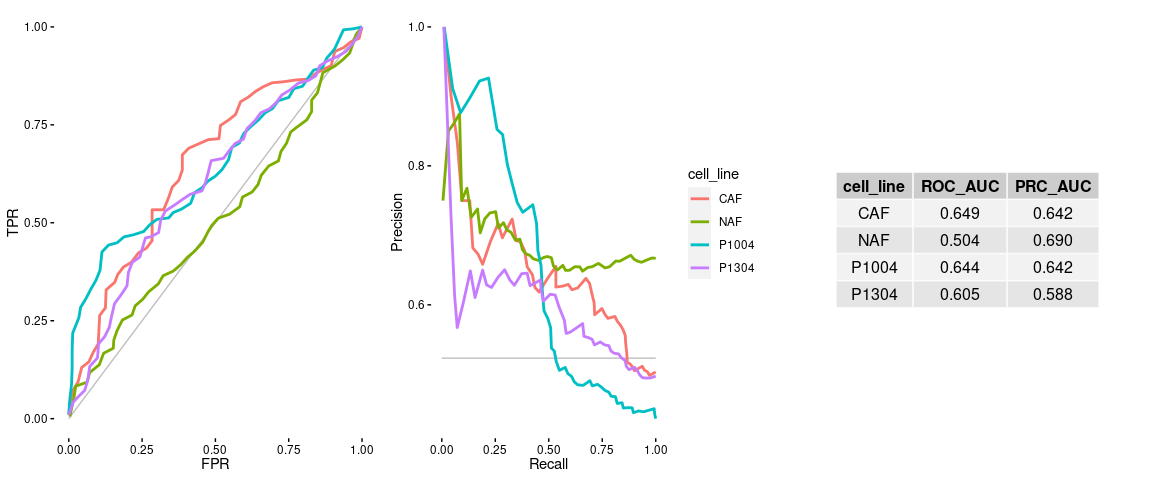
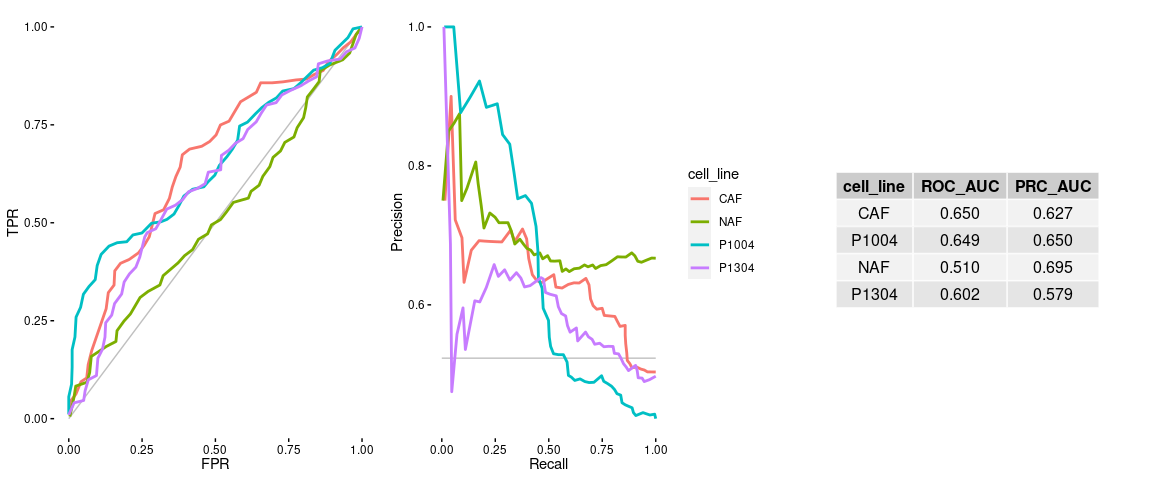
fixing error in model building for binary results

diff --git a/src/klaeger_synergy_binary_model/build_klaeger_synergy_binary_model.md b/src/klaeger_synergy_binary_model/build_klaeger_synergy_binary_model.md
@@ -96,14 +96,15 @@ for (this_cell_line in unique(klaeger_data_matches_full$cell_line)) {
         
         klaeger_test = klaeger_data_cell_line %>%
             filter(drug == exclude_compound) %>%
-            select(-drug,-drug_lower,-pdac,-concentration_M,-cell_line,-viability)
+            select(-drug,-drug_lower,-pdac,-concentration_M,-cell_line,-viability_binary,-viability)
         
         these_prediction_results = klaeger_data_cell_line %>%
             filter(drug == exclude_compound) %>%
-            select(drug,drug_lower,pdac,concentration_M,cell_line,viability_binary)
+            select(drug,drug_lower,pdac,concentration_M,cell_line,viability_binary,viability) %>%
+            rename(actual_viability_binary = viability_binary, actual_viability = viability)
         
         rf_mod <-
-            rand_forest(trees = 1000) %>%
+            rand_forest(trees = 5000) %>%
             set_engine("ranger", num.threads = 12) %>%
             set_mode("classification")
         
@@ -111,8 +112,7 @@ for (this_cell_line in unique(klaeger_data_matches_full$cell_line)) {
             rf_mod %>%
             fit(viability_binary ~ ., data = klaeger_train)
         
-        these_prediction_results$predicted_viability =predict(rf_fit_rs, klaeger_test, type = "prob")$.pred_TRUE
-        these_prediction_results$actual_viability = klaeger_test$viability_binary
+        these_prediction_results$predicted_viability = predict(rf_fit_rs, klaeger_test, type = "prob")$.pred_TRUE
         these_prediction_results$test_set_size = dim(klaeger_test)[1]
         
         prediction_results = bind_rows(
@@ -124,7 +124,7 @@ for (this_cell_line in unique(klaeger_data_matches_full$cell_line)) {
 toc()
 ```
 
-    ## 86.964 sec elapsed
+    ## 334.034 sec elapsed
 
 ``` r
 # prediction_results = prediction_results %>% 
@@ -138,7 +138,7 @@ toc()
 ``` r
 assess_threshold = function(threshold,data) {
     data %>% 
-        mutate(actual_viability = as.logical(actual_viability)) %>%
+        mutate(actual_viability = as.logical(actual_viability_binary)) %>%
         mutate(above_thresh = predicted_viability >= threshold) %>% 
         summarise(cutoff = threshold,
                             TN = sum(! actual_viability & ! above_thresh),
@@ -190,9 +190,6 @@ ROC_measurements = ROC_vals %>%
     
     ## Warning in regularize.values(x, y, ties, missing(ties), na.rm = na.rm):
     ## collapsing to unique 'x' values
-    
-    ## Warning in regularize.values(x, y, ties, missing(ties), na.rm = na.rm):
-    ## collapsing to unique 'x' values
 
 ``` r
 null_line = data.frame(x1 = 0, x2 = 1, y1 = 0, y2 = 1)
@@ -231,9 +228,9 @@ full_plots
 tic()
 
 if (file.exists(here('src/klaeger_synergy_binary_model/predictions_LOO_concen.rds'))) {
-    prediction_results_LO_concen = read_rds(here('src/klaeger_synergy_binary_model/predictions_LOO_concen.rds'))
+    prediction_results_LOO_concen = read_rds(here('src/klaeger_synergy_binary_model/predictions_LOO_concen.rds'))
 } else {
-    prediction_results_LO_concen = c()
+    prediction_results_LOO_concen = c()
     for (this_cell_line in unique(klaeger_data_matches_full$cell_line)) {
         
         klaeger_data_cell_line = klaeger_data_matches_full %>%
@@ -244,18 +241,19 @@ if (file.exists(here('src/klaeger_synergy_binary_model/predictions_LOO_concen.rd
                 
                 klaeger_train = klaeger_data_cell_line %>%
                     filter(drug != exclude_compound, concentration_M != exclude_concentration) %>%
-                    select(-drug,-drug_lower,-pdac,-concentration_M,-cell_line) 
+                    select(-drug,-drug_lower,-pdac,-concentration_M,-cell_line,-viability) 
                 
                 klaeger_test = klaeger_data_cell_line %>%
                     filter(drug == exclude_compound, concentration_M == exclude_concentration) %>%
-                    select(-drug,-drug_lower,-pdac,-concentration_M,-cell_line)
+                    select(-drug,-drug_lower,-pdac,-concentration_M,-cell_line,-viability_binary,-viability)
                 
                 these_prediction_results = klaeger_data_cell_line %>%
                     filter(drug == exclude_compound, concentration_M == exclude_concentration) %>%
-                    select(drug,drug_lower,pdac,concentration_M,cell_line)
+                    select(drug,drug_lower,pdac,concentration_M,cell_line,viability,viability_binary) %>%
+                    rename(actual_viability_binary = viability_binary, actual_viability = viability)
                 
                 rf_mod <-
-                    rand_forest(trees = 1000) %>%
+                    rand_forest(trees = 5000) %>%
                     set_engine("ranger", num.threads = 12) %>%
                     set_mode("classification")
                 
@@ -264,29 +262,28 @@ if (file.exists(here('src/klaeger_synergy_binary_model/predictions_LOO_concen.rd
                     fit(viability_binary ~ ., data = klaeger_train)
                 
                 these_prediction_results$predicted_viability =predict(rf_fit_rs, klaeger_test, type = "prob")$.pred_TRUE
-                these_prediction_results$actual_viability = klaeger_test$viability_binary
                 these_prediction_results$test_set_size = dim(klaeger_test)[1]
                 
-                prediction_results_LO_concen = bind_rows(
-                    prediction_results_LO_concen,
+                prediction_results_LOO_concen = bind_rows(
+                    prediction_results_LOO_concen,
                     these_prediction_results
                 )
             }
         }
-        write_rds(prediction_results_LO_concen,here('src/klaeger_synergy_binary_model/predictions_LOO_concen.rds'))
+        write_rds(prediction_results_LOO_concen,here('src/klaeger_synergy_binary_model/predictions_LOO_concen.rds'))
     }
 }
 toc()
 ```
 
-    ## 0.006 sec elapsed
+    ## 1286.861 sec elapsed
 
 ``` r
 ROC_vals = bind_rows(
-    gather_ROC_vals(prediction_results_LO_concen %>% filter(cell_line == "CAF"), "CAF"),
-    gather_ROC_vals(prediction_results_LO_concen %>% filter(cell_line == "NAF"), "NAF"),
-    gather_ROC_vals(prediction_results_LO_concen %>% filter(cell_line == "P1004"), "P1004"),
-    gather_ROC_vals(prediction_results_LO_concen %>% filter(cell_line == "P1304"), "P1304"),
+    gather_ROC_vals(prediction_results_LOO_concen %>% filter(cell_line == "CAF"), "CAF"),
+    gather_ROC_vals(prediction_results_LOO_concen %>% filter(cell_line == "NAF"), "NAF"),
+    gather_ROC_vals(prediction_results_LOO_concen %>% filter(cell_line == "P1004"), "P1004"),
+    gather_ROC_vals(prediction_results_LOO_concen %>% filter(cell_line == "P1304"), "P1304"),
 ) %>% rename(cell_line = prediction_type) %>%
     arrange(cell_line,desc(cutoff))
 
@@ -302,18 +299,6 @@ ROC_measurements = ROC_vals %>%
     select(-contains('rank'))
 ```
 
-    ## Warning in regularize.values(x, y, ties, missing(ties), na.rm = na.rm):
-    ## collapsing to unique 'x' values
-    
-    ## Warning in regularize.values(x, y, ties, missing(ties), na.rm = na.rm):
-    ## collapsing to unique 'x' values
-    
-    ## Warning in regularize.values(x, y, ties, missing(ties), na.rm = na.rm):
-    ## collapsing to unique 'x' values
-    
-    ## Warning in regularize.values(x, y, ties, missing(ties), na.rm = na.rm):
-    ## collapsing to unique 'x' values
-    
     ## Warning in regularize.values(x, y, ties, missing(ties), na.rm = na.rm):
     ## collapsing to unique 'x' values
     
@@ -479,18 +464,19 @@ for (this_cell_line in unique(klaeger_data_matches_full$cell_line)) {
         
         klaeger_train = klaeger_data_cell_line %>%
             filter(drug != exclude_compound) %>%
-            select(-drug,-drug_lower,-pdac,-concentration_M,-cell_line,-viability) 
+            select(-drug,-drug_lower,-pdac,-concentration_M,-cell_line,-viability)
         
         klaeger_test = klaeger_data_cell_line %>%
             filter(drug == exclude_compound) %>%
-            select(-drug,-drug_lower,-pdac,-concentration_M,-cell_line,-viability)
+            select(-drug,-drug_lower,-pdac,-concentration_M,-cell_line,-viability_binary,-viability)
         
         these_prediction_results = klaeger_data_cell_line %>%
             filter(drug == exclude_compound) %>%
-            select(drug,drug_lower,pdac,concentration_M,cell_line,viability_binary)
+            select(drug,drug_lower,pdac,concentration_M,cell_line,viability,viability_binary) %>%
+            rename(actual_viability_binary = viability_binary, actual_viability = viability)
         
         rf_mod <-
-            rand_forest(trees = 1000) %>%
+            rand_forest(trees = 5000) %>%
             set_engine("ranger", num.threads = 12) %>%
             set_mode("classification")
         
@@ -499,7 +485,6 @@ for (this_cell_line in unique(klaeger_data_matches_full$cell_line)) {
             fit(viability_binary ~ ., data = klaeger_train)
         
         these_prediction_results$predicted_viability =predict(rf_fit_rs, klaeger_test, type = "prob")$.pred_TRUE
-        these_prediction_results$actual_viability = klaeger_test$viability_binary
         these_prediction_results$test_set_size = dim(klaeger_test)[1]
         
         prediction_results = bind_rows(
@@ -511,7 +496,7 @@ for (this_cell_line in unique(klaeger_data_matches_full$cell_line)) {
 toc()
 ```
 
-    ## 70.811 sec elapsed
+    ## 219.696 sec elapsed
 
 ``` r
 # prediction_results = prediction_results %>% 
@@ -520,32 +505,6 @@ toc()
 
 # rf_fit = rf_mod %>%
 #   fit(Growth ~ ., data = klaeger_data)
-```
-
-``` r
-assess_threshold = function(threshold,data) {
-    data %>% 
-        mutate(actual_viability = as.logical(actual_viability)) %>%
-        mutate(above_thresh = predicted_viability >= threshold) %>% 
-        summarise(cutoff = threshold,
-                            TN = sum(! actual_viability & ! above_thresh),
-                            FP = sum(! actual_viability & above_thresh),
-                            FN = sum(actual_viability & ! above_thresh),
-                            TP = sum(actual_viability & above_thresh))
-}
-
-gather_ROC_vals = function(input_data, prediction_type, sample_points = 50) {
-    ROC_vals = quantile(input_data$predicted_viability,seq(0,1,length.out = sample_points)) %>%
-        map(~ assess_threshold(., data=input_data)) %>%
-        reduce(rbind) %>%
-        mutate(TPR = TP/(TP+FN), 
-                     FPR = FP/(FP+TN),
-                     precision = TP/(TP+FP),
-                     recall = TP/(TP+FN)) %>%
-        mutate(prediction_type = prediction_type) %>%
-        identity()
-    return(ROC_vals)
-}
 ```
 
 ``` r
@@ -580,9 +539,6 @@ ROC_measurements = ROC_vals %>%
     
     ## Warning in regularize.values(x, y, ties, missing(ties), na.rm = na.rm):
     ## collapsing to unique 'x' values
-    
-    ## Warning in regularize.values(x, y, ties, missing(ties), na.rm = na.rm):
-    ## collapsing to unique 'x' values
 
 ``` r
 null_line = data.frame(x1 = 0, x2 = 1, y1 = 0, y2 = 1)
@@ -613,7 +569,7 @@ full_plots = ggarrange(AUC_plot, PRC_plot, ROC_table,nrow=1)
 full_plots
 ```
 
-![](build_klaeger_synergy_binary_model_files/figure-gfm/unnamed-chunk-18-1.png)<!-- -->
+![](build_klaeger_synergy_binary_model_files/figure-gfm/unnamed-chunk-17-1.png)<!-- -->
 
 ## Random Forest - Below 40 Predictions - Leave One Compound/Concentration Out
 
@@ -621,9 +577,9 @@ full_plots
 tic()
 
 if (file.exists(here('src/klaeger_synergy_binary_model/predictions_LOO_concen_below40.rds'))) {
-    prediction_results_LO_concen = read_rds(here('src/klaeger_synergy_binary_model/predictions_LOO_concen_below40.rds'))
+    prediction_results_LOO_concen = read_rds(here('src/klaeger_synergy_binary_model/predictions_LOO_concen_below40.rds'))
 } else {
-    prediction_results_LO_concen = c()
+    prediction_results_LOO_concen = c()
     for (this_cell_line in unique(klaeger_data_matches_full$cell_line)) {
         
         klaeger_data_cell_line = klaeger_data_matches_full %>%
@@ -634,15 +590,16 @@ if (file.exists(here('src/klaeger_synergy_binary_model/predictions_LOO_concen_be
                 
                 klaeger_train = klaeger_data_cell_line %>%
                     filter(drug != exclude_compound, concentration_M != exclude_concentration) %>%
-                    select(-drug,-drug_lower,-pdac,-concentration_M,-cell_line) 
+                    select(-drug,-drug_lower,-pdac,-concentration_M,-cell_line,-viability) 
                 
                 klaeger_test = klaeger_data_cell_line %>%
                     filter(drug == exclude_compound, concentration_M == exclude_concentration) %>%
-                    select(-drug,-drug_lower,-pdac,-concentration_M,-cell_line)
+                    select(-drug,-drug_lower,-pdac,-concentration_M,-cell_line,-viability,-viability_binary)
                 
                 these_prediction_results = klaeger_data_cell_line %>%
                     filter(drug == exclude_compound, concentration_M == exclude_concentration) %>%
-                    select(drug,drug_lower,pdac,concentration_M,cell_line)
+                    select(drug,drug_lower,pdac,concentration_M,cell_line,viability,viability_binary) %>%
+                    rename(actual_viability_binary = viability_binary, actual_viability = viability)
                 
                 rf_mod <-
                     rand_forest(trees = 1000) %>%
@@ -653,30 +610,29 @@ if (file.exists(here('src/klaeger_synergy_binary_model/predictions_LOO_concen_be
                     rf_mod %>%
                     fit(viability_binary ~ ., data = klaeger_train)
                 
-                these_prediction_results$predicted_viability = predict(rf_fit_rs, klaeger_test, type = "prob")$.pred_TRUE
-                these_prediction_results$actual_viability = klaeger_test$viability_binary
+                these_prediction_results$predicted_viability =predict(rf_fit_rs, klaeger_test, type = "prob")$.pred_TRUE
                 these_prediction_results$test_set_size = dim(klaeger_test)[1]
                 
-                prediction_results_LO_concen = bind_rows(
-                    prediction_results_LO_concen,
+                prediction_results_LOO_concen = bind_rows(
+                    prediction_results_LOO_concen,
                     these_prediction_results
                 )
             }
         }
-        write_rds(prediction_results_LO_concen,here('src/klaeger_synergy_binary_model/predictions_LOO_concen_below40.rds'))
+        write_rds(prediction_results_LOO_concen,here('src/klaeger_synergy_binary_model/predictions_LOO_concen_below40.rds'))
     }
 }
 toc()
 ```
 
-    ## 0.007 sec elapsed
+    ## 326.492 sec elapsed
 
 ``` r
 ROC_vals = bind_rows(
-    gather_ROC_vals(prediction_results_LO_concen %>% filter(cell_line == "CAF"), "CAF"),
-    gather_ROC_vals(prediction_results_LO_concen %>% filter(cell_line == "NAF"), "NAF"),
-    gather_ROC_vals(prediction_results_LO_concen %>% filter(cell_line == "P1004"), "P1004"),
-    gather_ROC_vals(prediction_results_LO_concen %>% filter(cell_line == "P1304"), "P1304"),
+    gather_ROC_vals(prediction_results_LOO_concen %>% filter(cell_line == "CAF"), "CAF"),
+    gather_ROC_vals(prediction_results_LOO_concen %>% filter(cell_line == "NAF"), "NAF"),
+    gather_ROC_vals(prediction_results_LOO_concen %>% filter(cell_line == "P1004"), "P1004"),
+    gather_ROC_vals(prediction_results_LOO_concen %>% filter(cell_line == "P1304"), "P1304"),
 ) %>% rename(cell_line = prediction_type) %>%
     arrange(cell_line,desc(cutoff))
 
@@ -703,18 +659,6 @@ ROC_measurements = ROC_vals %>%
     
     ## Warning in regularize.values(x, y, ties, missing(ties), na.rm = na.rm):
     ## collapsing to unique 'x' values
-    
-    ## Warning in regularize.values(x, y, ties, missing(ties), na.rm = na.rm):
-    ## collapsing to unique 'x' values
-    
-    ## Warning in regularize.values(x, y, ties, missing(ties), na.rm = na.rm):
-    ## collapsing to unique 'x' values
-    
-    ## Warning in regularize.values(x, y, ties, missing(ties), na.rm = na.rm):
-    ## collapsing to unique 'x' values
-    
-    ## Warning in regularize.values(x, y, ties, missing(ties), na.rm = na.rm):
-    ## collapsing to unique 'x' values
 
 ``` r
 null_line = data.frame(x1 = 0, x2 = 1, y1 = 0, y2 = 1)
@@ -745,4 +689,4 @@ full_plots = ggarrange(AUC_plot, PRC_plot, ROC_table,nrow=1)
 full_plots
 ```
 
-![](build_klaeger_synergy_binary_model_files/figure-gfm/unnamed-chunk-21-1.png)<!-- -->
+![](build_klaeger_synergy_binary_model_files/figure-gfm/unnamed-chunk-20-1.png)<!-- -->
